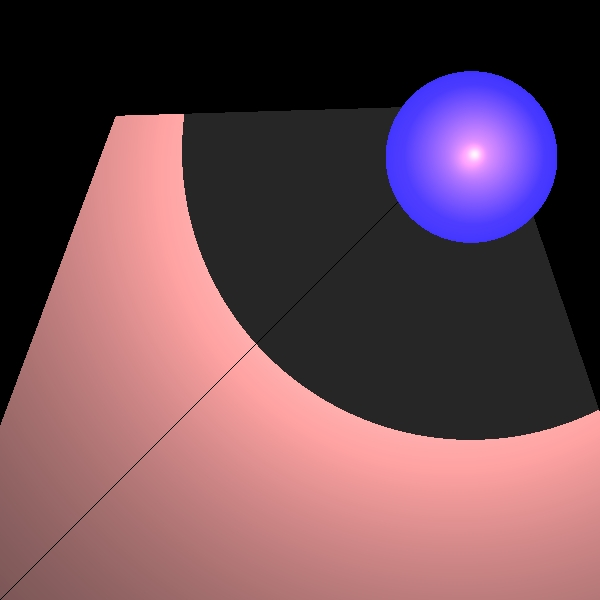
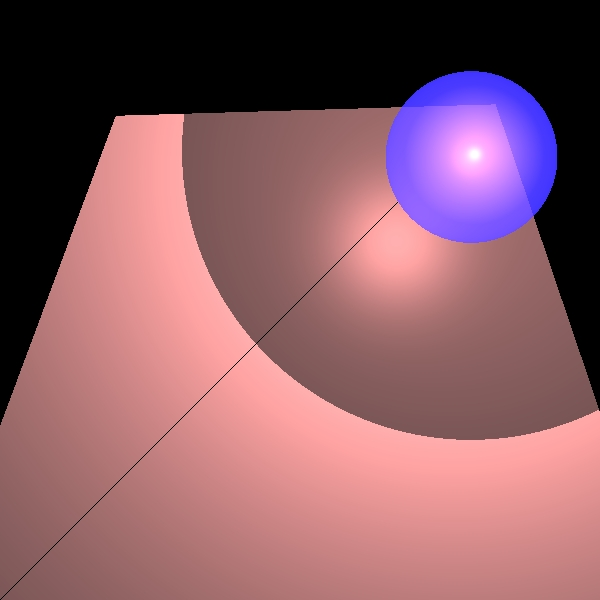
almost finish stage 7 27/05/2020 14:20

Changed region(s): [[0.3, 0.15, 1.0, 0.75]]

diff --git a/src/renderer/Render.java b/src/renderer/Render.java
@@ -14,6 +14,7 @@ import scene.Scene;
 import java.util.List;
 
 import static primitives.Util.alignZero;
+import static primitives.Util.isZero;
 
 /**
  * Render class for rendering a image
@@ -101,7 +102,6 @@ public class Render {
      */
     private Ray constructReflectedRay(Vector normal, Point3D rayPoint, Ray ray) {
         Vector newVector = reflectionDirection(ray.get_direction(), normal);
-        /*Point3D newPoint = moveDelta(rayPoint,newVector,normal);*/
         return new Ray(rayPoint, newVector, normal);
     }
 
@@ -114,15 +114,8 @@ public class Render {
      * @return new ray
      */
     private Ray constructRefractedRay(Vector normal, Point3D rayPoint, Ray ray) {
-
         return new Ray(rayPoint, ray.get_direction(), normal);
     }
-
-   /*
-    private Point3D moveDelta (Point3D p ,Vector v, Vector n){
-        Vector delta = n.scale(n.dotProduct(v) > 0 ? DELTA : - DELTA);
-        return p.add(delta);
-    }*/
 
     /**
      * caculate reflected ray from the geometry
@@ -132,6 +125,7 @@ public class Render {
      * @return a ray reflected from the geometry
      */
     private Vector reflectionDirection(Vector v, Vector n) {
+        //𝒓=𝒗 −𝟐∙(𝒗∙𝒏)∙𝒏
         return v.add(n.scale(-2 * v.dotProduct(n)));
     }
 
@@ -141,6 +135,135 @@ public class Render {
     public void writeToImage() {
         _imageWriter.writeToImage();
     }
+
+    //++++++++++++++++++++++++++++++++++++++++++++++++++++++++++++++++++++++++++++++++++++++++++++++++++++++++++++++++++++++++++++++++++++++++++++++
+
+    /*private Ray constructRefractedRayTemp(Point3D pointGeo, Ray inRay, Vector n) {
+        return new Ray(pointGeo, inRay.get_direction(), n);
+    }
+
+    private Ray constructReflectedRayTemp(Point3D pointGeo, Ray inRay, Vector n) {
+        //𝒓=𝒗 −𝟐∙(𝒗∙𝒏)∙𝒏
+        Vector v = inRay.get_direction();
+        double vn = v.dotProduct(n);
+
+        if (vn == 0) {
+            return null;
+        }
+
+        Vector r = v.subtract(n.scale(2 * vn));
+        return new Ray(pointGeo, r, n);
+    }
+
+    private Color calcSpecularTemp(double ks, Vector l, Vector n, double nl, Vector V, int nShininess, Color ip) {
+        double p = nShininess;
+        if (isZero(nl)) {
+            throw new IllegalArgumentException("nl cannot be Zero for scaling the normal vector");
+        }
+        Vector R = l.add(n.scale(-2 * nl)); // nl must not be zero!
+        double VR = alignZero(V.dotProduct(R));
+        if (VR >= 0) {
+            return Color.BLACK; // view from direction opposite to r vector
+        }
+        // [rs,gs,bs]ks(-V.R)^p
+        return ip.scale(ks * Math.pow(-1d * VR, p));
+    }*/
+
+    /**
+     * Calculate Diffusive component of light reflection.
+     *
+     * @param kd diffusive component coef
+     * @param nl dot-product n*l
+     * @param ip light intensity at the point
+     * @return diffusive component of light reflection
+     * @author Dan Zilberstein
+     * <p>
+     * The diffuse component is that dot product n•L. It approximates light, originally from light source L,
+     * reflecting from a surface which is diffuse, or non-glossy. One example of a non-glossysurface is paper.
+     * In general, you'll also want this to have a non-gray color value,
+     * so this term would in general be a color defined as: [rd,gd,bd](n•L)
+     * </p>
+     *//*
+    private Color calcDiffusiveTemp(double kd, double nl, Color ip) {
+        return ip.scale(Math.abs(nl) * kd);
+    }
+
+    private Color calcColorTemp(GeoPoint geoPoint, Ray inRay) {
+        Color color = calcColorTemp(geoPoint, inRay, MAX_CALC_COLOR_LEVEL, 1.0);
+        color = color.add(_scene.getAmbientLight().getIntensity());
+        return color;
+    }
+
+    private Color getLightSourcesColors(GeoPoint geoPoint, double k, Color result, Vector v, Vector n, double nv, int nShininess, double kd, double ks) {
+        Point3D pointGeo = geoPoint._point;
+        List<LightSource> lightSources = _scene.getLights();
+        if (lightSources != null) {
+            for (LightSource lightSource : lightSources) {
+                Vector l = lightSource.getL(pointGeo);
+                double nl = alignZero(n.dotProduct(l));
+                if (nl * nv > 0) {
+//                if (sign(nl) == sign(nv) && nl != 0 && nv != 0) {
+//                    if (unshaded(lightSource, l, n, geoPoint)) {
+                    double ktr = transparency(lightSource, l, n, geoPoint);
+                    if (ktr * k > MIN_CALC_COLOR_K) {
+                        Color ip = lightSource.getIntensity(pointGeo).scale(ktr);
+                        result = result.add(
+                                calcDiffusiveTemp(kd, nl, ip),
+                                calcSpecularTemp(ks, l, n, nl, v, nShininess, ip));
+                    }
+                }
+            }
+        }
+        return result;
+    }
+
+    private Color calcColorTemp(GeoPoint geoPoint, Ray inRay, int level, double k) {
+        if (level == 1 || k < MIN_CALC_COLOR_K) {
+            return Color.BLACK;
+        }
+
+        Color result = geoPoint._geometry.getEmissionLight();
+        Point3D pointGeo = geoPoint._point;
+
+        Vector v = pointGeo.subtract(_scene.getCamera().getLocation()).normalize();
+        Vector n = geoPoint._geometry.getNormal(pointGeo);
+
+        double nv = alignZero(n.dotProduct(v));
+        if (nv == 0) {
+            //ray parallel to geometry surface ??
+            //and orthogonal to normal
+            return result;
+        }
+
+        Material material = geoPoint._geometry.getMaterial();
+        int nShininess = material.getShininess();
+        double kd = material.getKd();
+        double ks = material.getKs();
+        double kr = geoPoint._geometry.getMaterial().getKr();
+        double kt = geoPoint._geometry.getMaterial().getKt();
+        double kkr = k * kr;
+        double kkt = k * kt;
+
+        result = result.add(getLightSourcesColors(geoPoint, k, result, v, n, nv, nShininess, kd, ks));
+
+        if (kkr > MIN_CALC_COLOR_K) {
+            Ray reflectedRay = constructReflectedRayTemp(pointGeo, inRay, n);
+            GeoPoint reflectedPoint = findClosestIntersection(reflectedRay);
+            if (reflectedPoint != null) {
+                result = result.add(calcColorTemp(reflectedPoint, reflectedRay, level - 1, kkr).scale(kr));
+            }
+        }
+        if (kkt > MIN_CALC_COLOR_K) {
+            Ray refractedRay = constructRefractedRayTemp(pointGeo, inRay,n);
+            GeoPoint refractedPoint = findClosestIntersection(refractedRay);
+            if (refractedPoint != null) {
+                result = result.add(calcColorTemp(refractedPoint, refractedRay, level - 1, kkt).scale(kt));
+            }
+        }
+        return result;
+    }*/
+
+    //++++++++++++++++++++++++++++++++++++++++++++++++++++++++++++++++++++++++++++++++++++++++++++++++++++++++++++++++++++++++++++++++++++++++++++++
 
     /**
      * calcColor function
@@ -178,7 +301,7 @@ public class Render {
 
         for (LightSource lightSource : _scene.getLights()) {
             Vector l = lightSource.getL(gp._point);
-            if ((n.dotProduct(l)) * (n.dotProduct(v)) > 0) {
+            if (alignZero(n.dotProduct(l)) * alignZero(n.dotProduct(v)) > 0) {
                 double ktr = transparency(lightSource,l,n,gp);
                 if (ktr*k > MIN_CALC_COLOR_K) {
                     Color lightIntensity = lightSource.getIntensity(gp._point).scale(ktr);
@@ -279,7 +402,6 @@ public class Render {
      */
     private boolean unshaded(LightSource light, Vector l, Vector n, GeoPoint gp) {
         Vector lightDirection = l.scale(-1); // from point to light source
-        /*Point3D point = moveDelta(gp._point,lightDirection,n);*/
         Ray lightRay = new Ray(gp._point, lightDirection, n);
 
         List<GeoPoint> intersections = _scene.getGeometries().findIntersections(lightRay);
@@ -317,9 +439,10 @@ public class Render {
 
         for (GeoPoint geoPoint : intersections) {
             if (alignZero(geoPoint._point.distance(gp._point) - lightDistance) <= 0) {
-                ktr *= gp._geometry.getMaterial().getKt();
-                if (ktr < MIN_CALC_COLOR_K)
+                ktr *= geoPoint._geometry.getMaterial().getKt();
+                if (ktr < MIN_CALC_COLOR_K) {
                     return 0d;
+                }
             }
         }
         return ktr;
